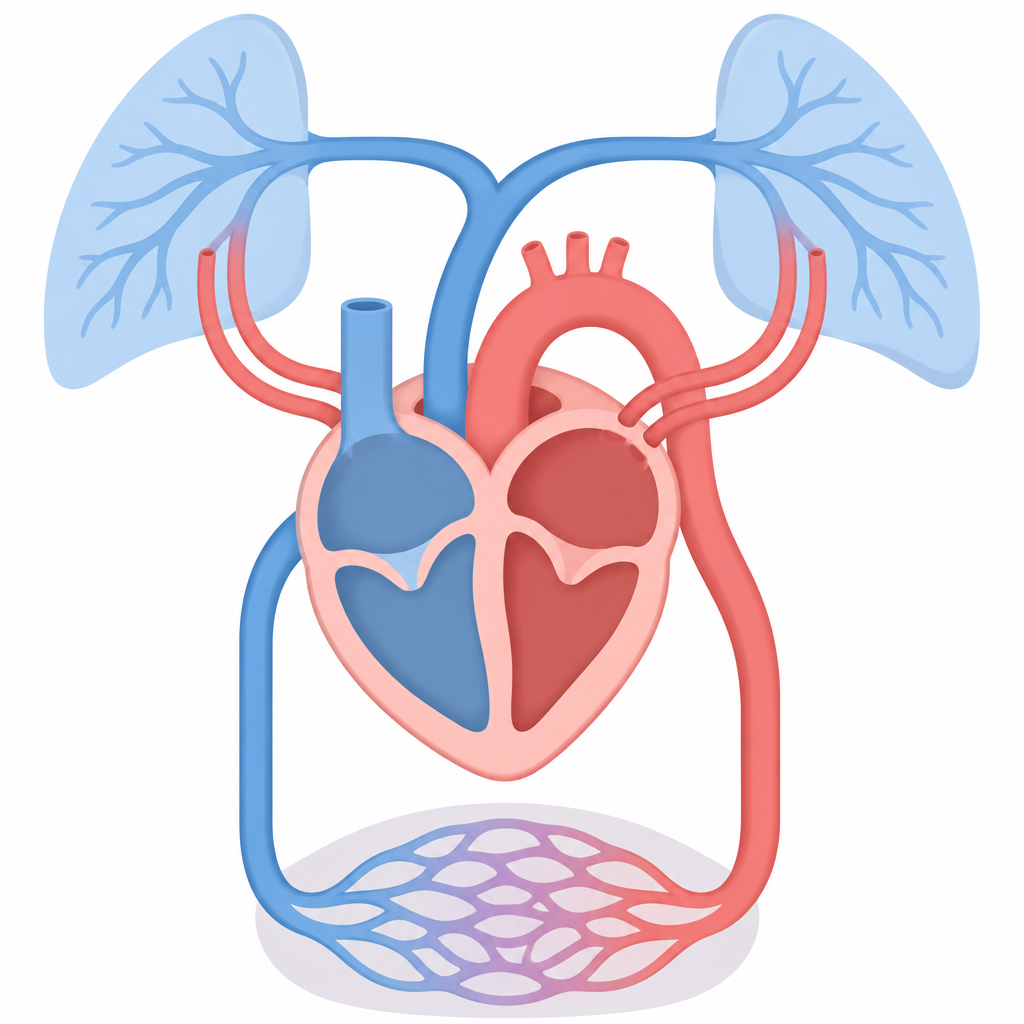
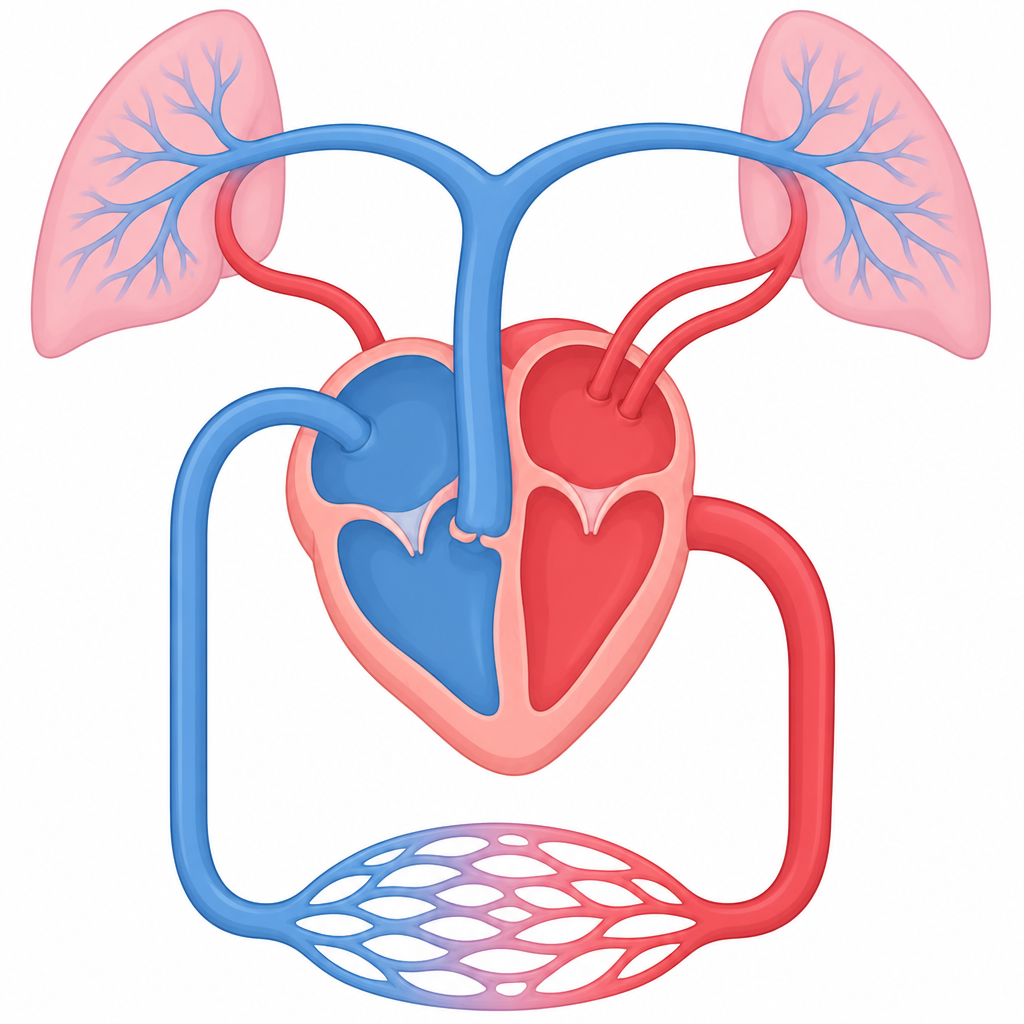
Organism_Metro: 심장 순환 그림 다시 생성(해부학 바로잡음), 순환선 좌표 새 그림에 맞춤

diff --git a/work/organism/S2/keyscreens.md b/work/organism/S2/keyscreens.md
@@ -13,7 +13,8 @@ Figma: https://www.figma.com/design/0wVJvRkvqklFbRu6PfTYGK — 페이지 `Organi
 SVG 직접 그림은 운영자 반려("너무 짜침") → 생성 이미지 5장으로 교체. 원본: `app/public/organism/{body,heart,kidney,eye,ear}.png`, Figma 같은 페이지 왼쪽 `scene/*`.
 역 좌표는 이미지 픽셀 좌표(몸 688×1024, 심장·콩팥 1024×1024, 눈·귀 1024×688)로 찍었다. 노선은 그림 위에 흰 테 + 노선 색 선으로 얹는다.
 - 몸 그림이 아이 얼굴이 있는 캐릭터풍이다. 식도는 따로 안 보이고 기관·척수와 겹친다.
-- 심장 그림의 왼쪽 폐정맥이 우심방 쪽으로 들어가게 그려져 있다(해부학 오류) → 순환선은 오른쪽 폐 경로만 쓴다. 교사 검수 필요.
+- ~~심장 그림의 왼쪽 폐정맥이 우심방 쪽으로 들어감(해부학 오류)~~ → 2026-11-15 심장 그림 다시 생성(폐동맥은 우심실에서, 대정맥은 우심방으로, 오른쪽 폐정맥은 좌심방으로). 왼쪽 폐정맥은 아직 심장 위 가운데로 애매하게 들어가서 순환선은 오른쪽 폐 경로를 쓴다. 교사 검수 필요.
+- Figma 시안의 심장 그림은 옛 그림 그대로다 (앱만 교체).
 
 ## 지도 = 실제 몸 (운영자 요청 2026-11-14)
 Element의 주기율표 자리에 **기관이 있는 실제 그림**을 깔고, 노선은 그 위의 실제 위치를 따라간다.
